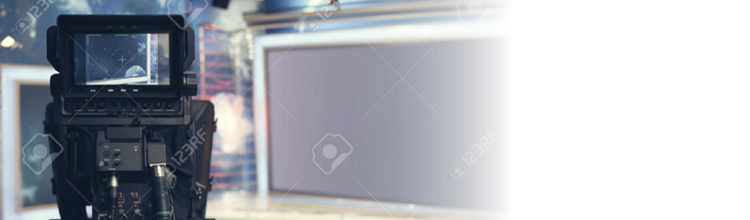
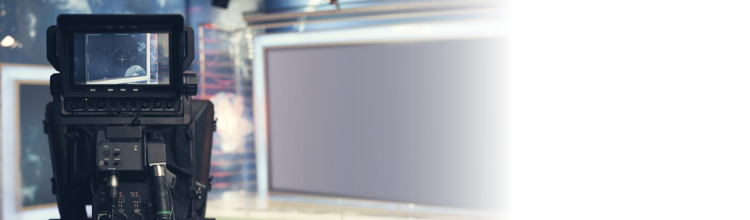
Add files via upload

diff --git a/index.html b/index.html
@@ -27,7 +27,7 @@
 <ul class="pages paper-vertical" id="slider">
   <li class="page" data-name="1">
     <div class="page-scale-wrap mq-none mq-default" role="region" data-layout-name="undefined" style="width:750px;height:1334px;">
-      <img src="assets/images/blank.gif" alt="Rectangle" style="top:132px !important;" id="item1386" class="pageItem " data-src="assets/images/item_1386.png"/>
+      <img src="assets/images/blank.gif" alt="Television studio with camera and lights - recording TV NEWS. Shallow depth of field - focus on camera." style="top:132px !important;" id="item1386" class="pageItem " data-src="assets/images/item_1386.png"/>
       <map name="mapForItem363">
         <area shape="rect" coords="132,-5,406,43" href="https://www.ift.org.mx" target="_blank" alt="www.ift.org.mx"/>
       </map>
